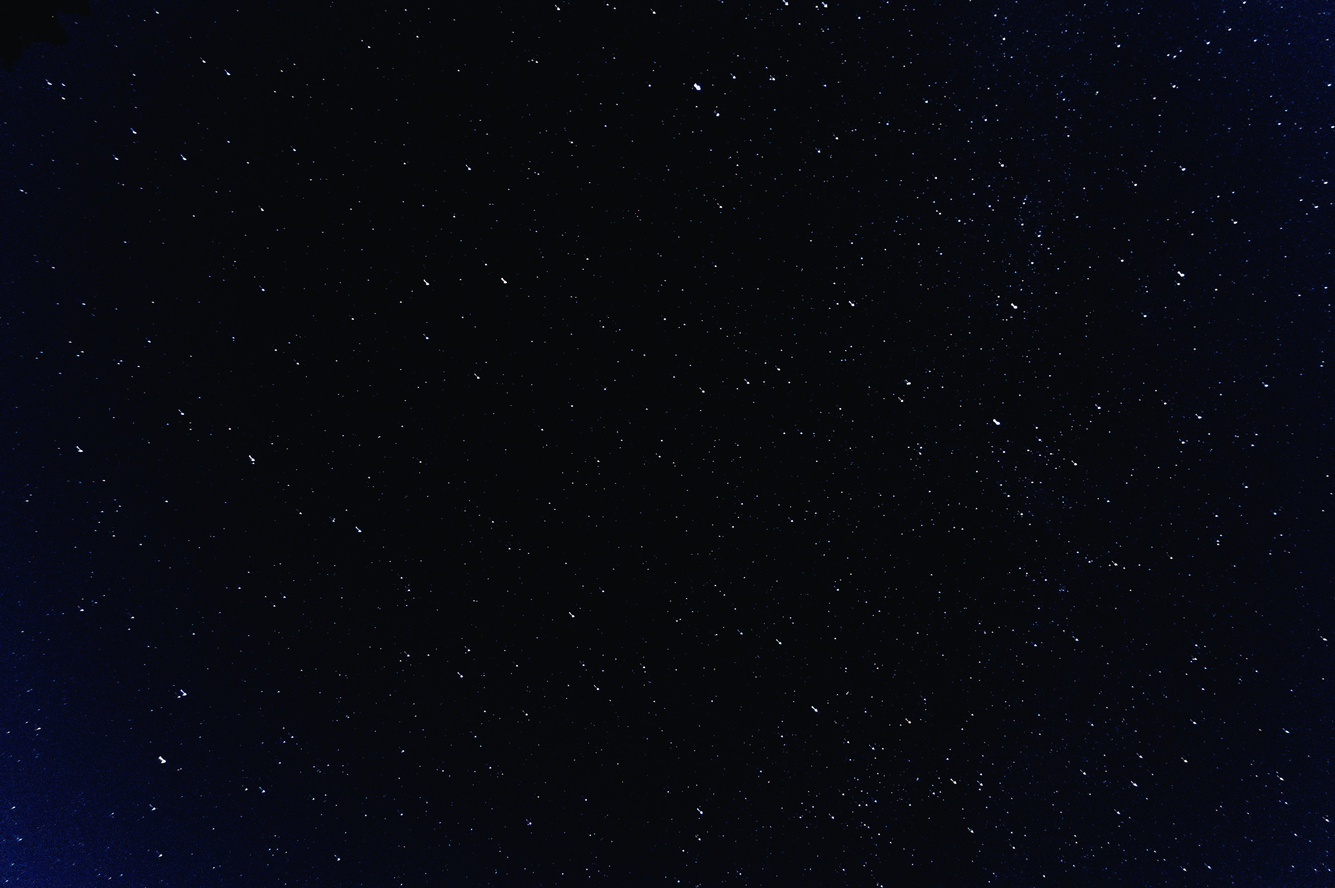
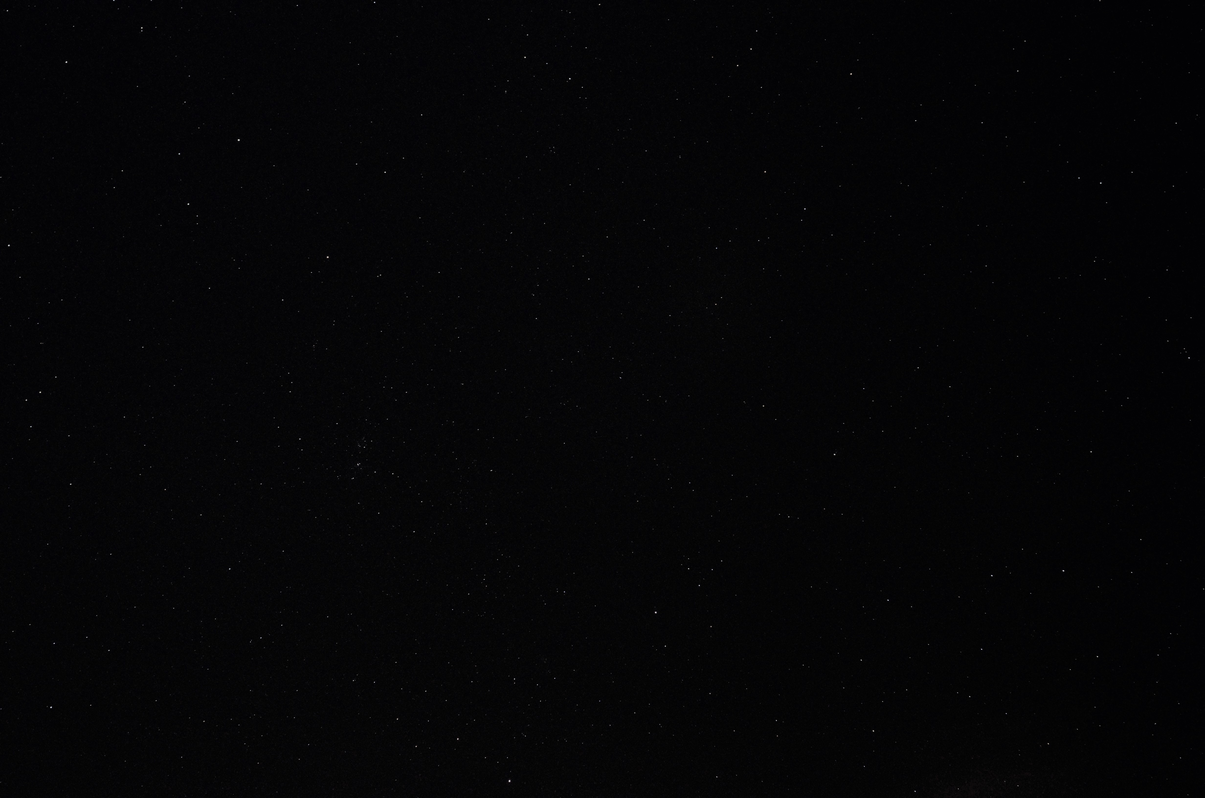
Change background

diff --git a/src/App.css b/src/App.css
@@ -4,7 +4,8 @@
     margin: 0;
 }
 body{
-    background-color: #11141a;
+    background: url("./assets/planets/bg.jpg") no-repeat center;
+    background-size: cover;
     font-family: "Sora";
     letter-spacing: 2px;
     height: 100vh;
